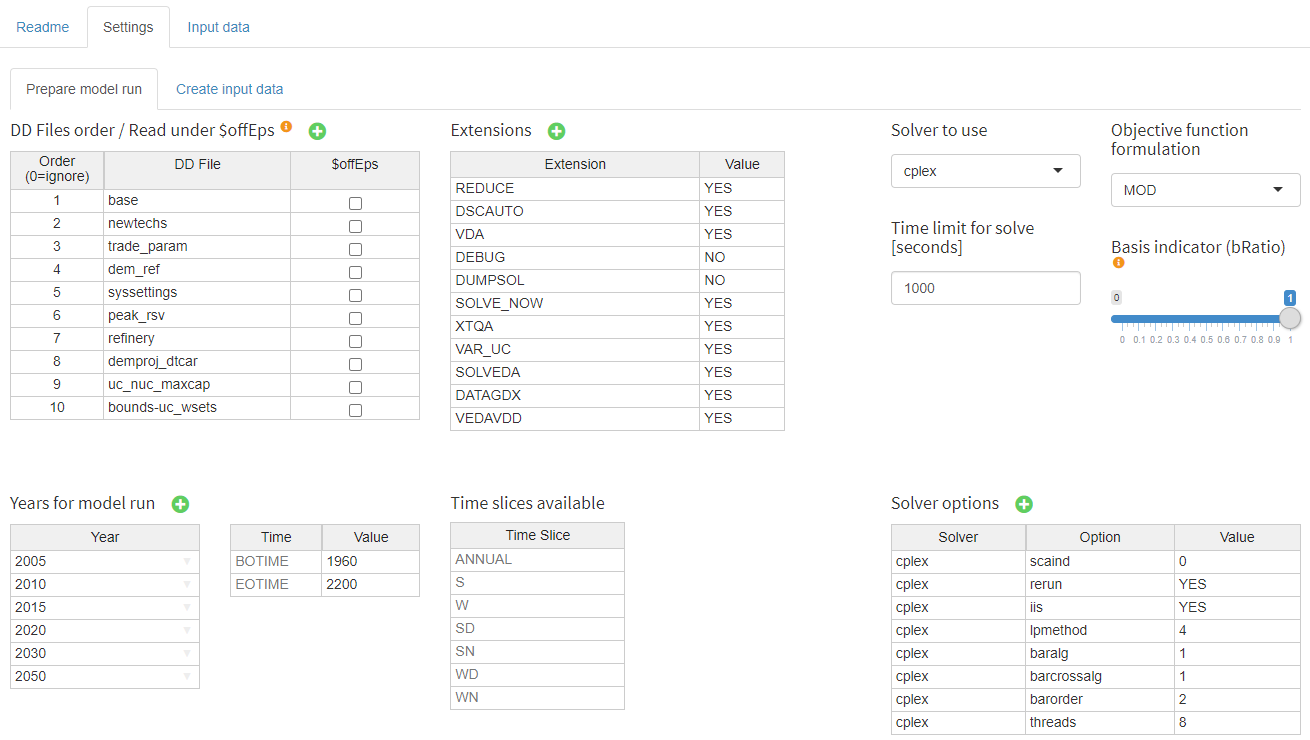
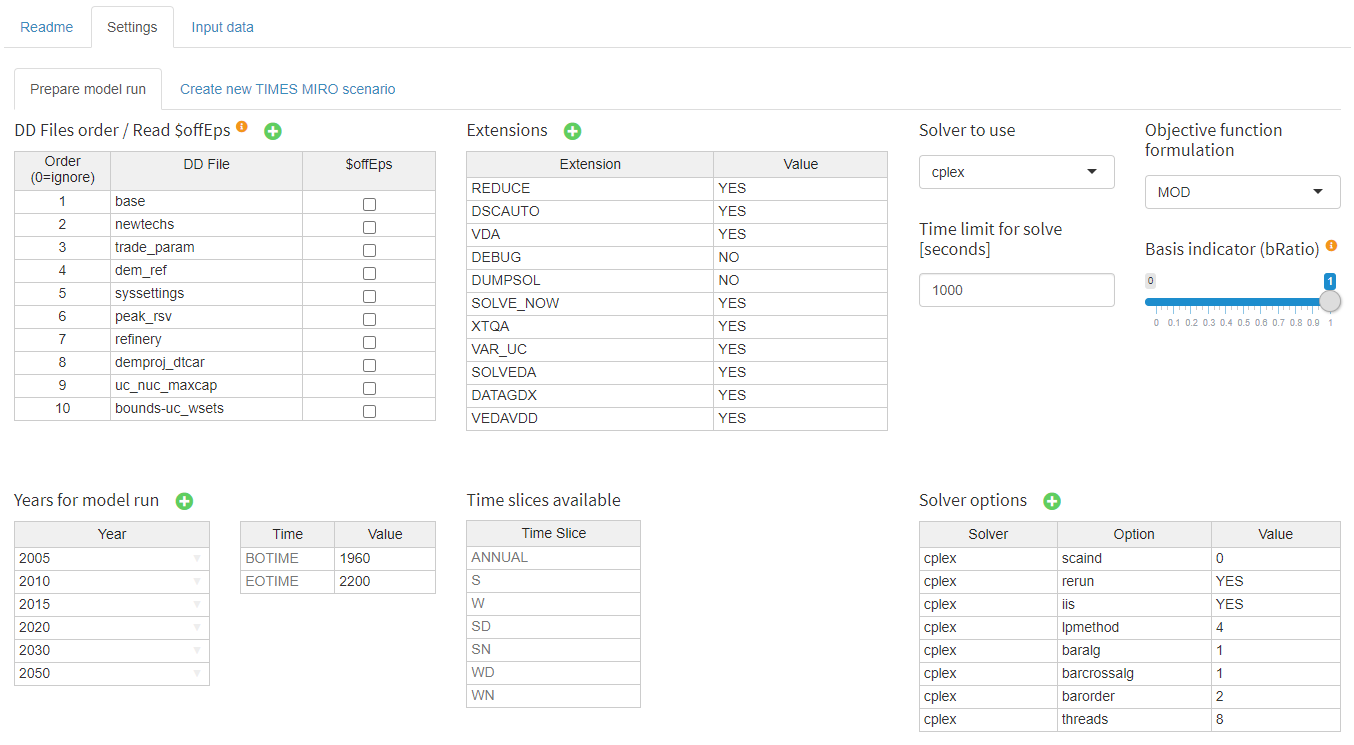
Minor fixes in the application readme
- Re-name 'Create input data' into 'Create new TIMES MIRO scenario'
- Use custom css styles in input renderers

diff --git a/static_times_miro/custom.css b/static_times_miro/custom.css
@@ -1,0 +1,212 @@
+/* Input widget */
+.table-styles {
+    margin-bottom: 15px;
+}
+.table-header {
+    display: inline-block;
+}
+.box-custom {
+    height: 450px;
+    margin-bottom: 25px;
+}
+.add-row-btn-wrapper {
+    display: inline-block;
+}
+.add-row-btn {
+    border: none;
+    box-shadow: none;
+    color: #60ce60;
+    font-size: 18px;
+}
+.info-label-nowrap {
+    white-space: nowrap;
+}
+@media only screen and (max-width: 1199px) {
+    .custom-2 {
+        width: 100%;
+    }
+    .custom-2.box-custom {
+        height: unset;
+        margin-bottom: 0px;
+    }
+    .outer-height{
+        height: 475px;
+    }
+}
+@media only screen and (min-width: 768px) and (max-width: 1199px) {
+    .reverse-custom {
+        display: flex;
+        flex-flow: row-reverse;
+    }
+}
+@media only screen and (min-width: 1200px) {
+    .custom-4 {
+        width: 33.33333333%;
+    }
+    .custom-8 {
+        width: 66.66666667%;
+    }
+}
+@media only screen and (min-width: 1200px) and (max-width: 1399px) {
+    .custom-2 {
+        width: 100%
+    }
+    .custom-2.box-custom {
+        height: unset;
+        margin-bottom: 0px;
+    }
+    .outer-height{
+        height: 475px;
+    }
+    .custom-4 {
+        width: 25%;
+    }
+    .custom-8 {
+        width: 75%;
+    }
+}
+/* RES network */
+.custom-css .row-custom {
+      margin-left: 0;
+      margin-right: 0;
+}
+.custom-css .align-items-center {
+      display: flex;
+      -webkit-box-align: center!important;
+      -ms-flex-align: center!important;
+      align-items: center!important;
+}
+.custom-css .align-items-center .col-sm-2,
+.custom-css .align-items-center .col-sm-3 {
+    flex-basis: 0;
+    -webkit-box-flex: 1;
+    -ms-flex-positive: 1;
+    flex-grow: 1;
+    max-width: 100%;
+}
+.custom-css .flow-chart {
+    min-height:250px;
+}
+.custom-css .flow-chart-outer {
+    margin: 10px 25pt 30pt 0;
+    padding-left: 50px;
+    padding-right: 50px;
+    background-color: #f1f1f18f;
+    box-shadow: inset 0 2px 4px 0 rgb(0 0 0 / 10%);
+}
+.custom-css .side-padding{
+    padding-left: 15px;
+    padding-right: 15px;
+}
+.custom-css .com-proc-item {
+  line-height: 16px;
+  font-size: 12px;
+  text-align: center;
+  border-radius: 20px;
+  padding: 5px;
+  display: block;
+  box-shadow: 0 1px 4px rgb(0 0 0 / 10%);
+  margin: 4px 3px;
+  border: 1px solid;
+  cursor: pointer;
+  color: #1d2121;
+  overflow-wrap: break-word;
+}
+.node-el {
+   border: 2px solid black;
+   padding: 5px;
+   text-align: center;
+   background-color: #fff;
+   overflow-wrap: break-word;
+}
+.node-column {    
+   padding-left: 8px;
+   padding-right: 8px;
+
+}
+.flow-arrow {
+    text-align: center;
+    font-size:40px;
+    padding-left: 0;
+    padding-right: 0;
+}
+.flow-arrow-small {
+    font-size:30px;
+}
+@media (prefers-color-scheme:dark){
+    .custom-css .com-proc-item,
+    .node-el {
+        background-color: #393e46;
+    }
+    .custom-css .flow-chart {
+        background-color: #4e545d;
+    }
+    .custom-css .flow-chart-outer {
+        background-color: #4e545d;
+    }
+    .flow-arrow {
+        color: #1d2121;
+    }
+    .pvtAxisContainer, .pvtVals {
+      background: #4e545d;
+    }
+    table.pvtTable tbody tr td {
+      color: #eee;
+      background-color: #393e46;
+    }
+    table.pvtTable tbody tr th, 
+    table.pvtTable thead tr th {
+      background-color: #292d33;
+    }
+    .pvtAxisContainer li span.pvtAttr {
+      background-color: #393e46;
+      border-color: #292d33;
+    }
+    .pvtUi {
+      color: #eee;
+    }
+}
+.custom-css .com-proc-item:hover {
+    background-color: #e7e7e7;
+    border-color: #adadad;
+    color: #1d2121;
+    transition: all .5s ease;
+}
+.flow-item-list {
+    padding: 5px;
+}
+.custom-list {
+  margin: 0;
+  padding: 0;
+}
+.flow-row {
+  margin: 10pt 0 35pt 0;
+}
+.legend-row {
+  padding-top: 25pt;
+  text-align: center;
+}
+.legend-row ul {
+  display: inline;
+  padding-left: 0;
+}
+.legend-row .legend-item {
+  line-height: 10px;
+  cursor: auto;
+  padding: 5px 15px;
+  display: inline-block;
+}
+.float-lg {
+    float:right;
+}
+@media only screen and (max-width: 1199px){
+    .custom-css .flow-chart-outer {
+        margin-right: 0;
+    }
+    .float-lg {
+        float:unset;
+    }
+}
+img + em {
+    display: block; 
+}

diff --git a/app_README.md b/app_README.md
@@ -1,12 +1,12 @@
 # TIMES MIRO App
 
-   * [Input View / Job setup](#input-view)
-       * [TIMES data sets](#times-data-sets)
-       * [Create input data](#create-input)
-       * [Prepare model run](#prepare-model-run)
-       * [Input data](#input-data)
-       * [RES viewer](#res-viewer)
-       * [Solve model](#solve-model)
+   * [Input View / Job Setup](#input-view)
+       * [TIMES MIRO Scenarios](#times-data-sets)
+       * [Create a TIMES MIRO Scenario from *.dd and *.run Files](#create-input)
+       * [Prepare Model Run](#prepare-model-run)
+       * [Input Data](#input-data)
+       * [RES Viewer](#res-viewer)
+       * [Solve Model](#solve-model)
    * [GAMS Interaction View](#gams-interaction-view)
    * [Output View](#output-view)
    * [Load Scenarios View](#load-scenarios-view)
@@ -14,7 +14,7 @@
    * [License](#license)
 
 
-This is a [GAMS MIRO](https://gams.com/miro) app for the [IEA-ETSAP TIMES](https://github.com/etsap-TIMES/TIMES_model) model. It allows the user to load and manipulate different data sets, to set TIMES options, to analyze input and output data, and to compare scenarios. The app comes with predefined data sets, e.g. the [TIMES_Demo](https://github.com/etsap-TIMES/TIMES_Demo) (default) and the the [TIMES-DK\_COMETS](https://github.com/energy-modelling-club/TIMES-DK_COMETS) data sets. Others can be created from \*.dd and \*.run files (see [below](#create-input)).
+This is a [GAMS MIRO](https://gams.com/miro) app for the [IEA-ETSAP TIMES](https://github.com/etsap-TIMES/TIMES_model) model. It allows the user to load and manipulate different data sets, to set TIMES options, to solve TIMES Models, to analyze input and output data, and to compare scenarios. The app comes with predefined TIMES MIRO Scenarios, e.g. the [TIMES_Demo](https://github.com/etsap-TIMES/TIMES_Demo) (default) and the the [TIMES-DK\_COMETS](https://github.com/energy-modelling-club/TIMES-DK_COMETS) data sets. Others can be created from \*.dd and \*.run files (see [below](#create-input)).
 
 The app follows the common [MIRO App Structure](https://www.gams.com/miro/start.html#miro-structure) with a navigation bar on the left side to switch between the following views:
 * Input View
@@ -23,37 +23,48 @@ The app follows the common [MIRO App Structure](https://www.gams.com/miro/start.
 * Load Scenarios View
 * Compare Scenarios View 
 <br /><br />
-
-## Input View / Job setup<a name="input-view"></a>
  
-### TIMES data sets<a name="times-data-sets"></a>
-To perform a model run, MIRO compatible data is required. This data can be loaded in the form of scenarios already stored in the integrated database or uploaded in the form of GDX files. Data sets stored in the database can be loaded via the `load data` button in the navigation bar of the Input view. In the dialog that opens, all available data sets are listed (`Database` tab). 
+### TIMES MIRO Scenarios<a name="times-data-sets"></a>
+To perform a model run, MIRO compatible data is required. This data can be loaded in the form of scenarios already stored in the integrated database or uploaded in the form of GDX files. TIMES MIRO scenarios stored in the database can be loaded via the `load data` button in the navigation bar of the Input view. In the dialog that opens, all available scenarios are listed (`Database` tab). 
 
 ![Load a data set from the database](static_times_miro/load_data.png)
-<br /><br />
+*Load a TIMES MIRO scenario from the database* 
 
-### Create input data<a name="create-input"></a>
-If the data comes from a GDX file, it must meet certain requirements. If not available, such a GDX file can be generated from within the interface using \*.dd files and a \*.run file. In the input view click on the `settings` tab and go to `Create input data`. Now upload all \*.dd files to be used and the \*.run file via the corresponding upload fields. MIRO will tell you if the upload was successful and lists the files in the tables next to the upload fields. The process to generate the GDX file can be started by clicking on `Solve model`. An input cube will be created from the \*.dd files provided by the user and a TIMES scenario will be defined by automatically extracting TIMES extensions, active \*.dd files, etc. from the \*.RUN file. Note that this approach is convenient but also fragile because if the RUN file contains unexpected content, things might fail.
+<br />
 
-**_NOTE:_**  Depending on which of the two sub-tabs `Prepare model run` and `Create input data` of the settings menu you are in, clicking on `Solve Model` will start different processes. Make sure that you are in the correct tab.
+### Create a TIMES MIRO Scenario from *.dd and *.run Files<a name="create-input"></a>
+If the data comes from a GDX file, this GDX file must correspond to the data structure of a TIMES MIRO scenario with its input cube and the settings. If not available, such a GDX file can be generated from within the interface using \*.dd files and a \*.run file. In the input view click on the `settings` tab and go to `Create new TIMES MIRO scenario`. Now upload all \*.dd files to be used and the \*.run file via the corresponding upload fields. MIRO tells you whether the upload was successful and lists the files in the tables next to the upload fields. 
 
-When the process is complete, the view switches to the output section and the GDX file is attached to the current MIRO scenario. To download it, go to `Scenario` in the upper right corner of the application, select `Edit metadata` and open the `Attachments` tab. You will find a `miroScenario.gdx`. Click on the file to start the download. 
-<br /><br />
+![Upload dd and run files](static_times_miro/upload_files.png)
+*Upload \*.dd and \*.run files*
+
+The process to generate the GDX file containing a TIMES MIRO Scenario can be started by clicking on `Solve model`. An input data cube will be created from the \*.dd files provided by the user and the TIMES MIRO scenario will be completed by automatically extracting TIMES extensions, active \*.dd files, etc. from the \*.run file. Note that this approach is convenient but also fragile because if the \*.run file contains unexpected content, things might fail.
+
+**_NOTE:_**  Depending on which of the two sub-tabs `Prepare model run` and `Create new TIMES MIRO scenario` of the settings menu you are in, clicking on `Solve Model` will start different processes. Make sure that you are in the correct tab. This also applies when you are no longer on the Settings tab. The last selected mode is activated.
+
+When the process is complete, the view switches to the output section and the GDX file is attached to the current MIRO scenario. To download it, go to `Scenario` in the upper right corner of the application, select `Edit metadata` and open the `Attachments` tab. You will find a `miroScenario.gdx`. Click on the file to start the download. This GDX file can be imported in a next step to use it as input data for a model run (see below).
+
+![Download of the new TIMES MIRO scenario](static_times_miro/download_miroscenario.png)
+*Download of the new TIMES MIRO scenario*
+
+<br />
 
 ### Prepare model run<a name="prepare-model-run"></a>
-If a compatible GDX file has been created, it can be used for a model run. To load the data of a GDX file into the interface, click on `Load data` in the input view and in the opening dialog on the `Local` tab. Here you can upload the GDX file and confirm it by clicking on `Import`. 
+To load a TIMES MIRO Scenario from a GDX file, click on `Load data` in the input view and in the opening dialog on the `Local` tab. Here you can upload the GDX file and confirm it by clicking on `Import`. 
 
-**_Info:_**  A dataset (all visible data and attachments) can be stored in the database at any time as a MIRO scenario for later use under `Scenario` &rarr; `Save as`. To load an existing scenario from the database, click the `Load data` button in the input view. If there are many saved scenarios, the [Load scenarios view](#load-scenarios-view) can give a better overview. 
+**_Info:_**  A TIMES MIRO Scenario (all visible data and attachments) can be stored in the database at any time as a MIRO scenario for later use under `Scenario` &rarr; `Save as`. To load an existing scenario from the database, click the `Load data` button in the input view. If there are many saved scenarios, the [Load scenarios view](#load-scenarios-view) can give a better overview. 
 
 Under `Prepare model run` in the `Settings` tab the main configuration is done. Since most of the settings should be self explaining only some of them are explained below.
 
 ![inputwidgets](static_times_miro/input_widgets.png)
+*The main configuration is done in the `prepare model run` tab* 
 
-`DD Files order / Read under $offEps`: In this table the names of all \*.dd files are listed. The user can adjust the read order and specify whether a \*.dd file should be read in GAMS under `$offEps`. If a \*.dd file should not be used for the next model run, this can be specified by an order value of `0`. 
+<br />
+`DD Files order / Read under $offEps`: In this table, the names of all \*.dd files that belong to the current TIMES MIRO scenario are listed. The user can adjust the read order and specify whether a \*.dd file should be read in GAMS under `$offEps`. If a \*.dd file should not be used for the next model run, this can be specified by an order value of `0`. 
 
-`Extensions`: This table allows to enable/disable several TIMES extensions.
+`Extensions`: This table allows to enable/disable TIMES extensions.
 
-`Time slices available`: This table cannot be edited by the user, but only serves as an overview of the available time slices in the data. The set of timeslices and the representation of the intra-annual resolution is pre-configured and of central to many model parameters. A re-configuration of this set would require extensive modifications in the input parameters.
+`Time slices available`: This table cannot be edited by the user, but only serves as an overview of the available time slices in the data. The set of timeslices and the representation of the intra-annual resolution is pre-configured and of central importance to many model data structures. A re-configuration of this set would require extensive modifications in the input data cube.
 
 `Years for model run`: This table allows to select the set of years for which the model will run. Those years are often referred to as *milestone years*.
 
@@ -61,16 +72,18 @@ Under `Prepare model run` in the `Settings` tab the main configuration is done. 
 <br /><br />
 
 ### Input data<a name="input-data"></a>
-This is the central tab for browsing and editing input data in a powerful pivot table. The concept of this tab follows the idea to look at data based on "important" indices (e.g. Region, Year, Process, Commodity, Time Slice, ...). Each dimension of the cube can be filtered, aggregated, dragged into the columns, etc. using drag and drop. The cells are editable. Note, however, that as long as a dimension of the cube is in the `Aggregate` field, the table is read-only. More information about the pivot tool in general can be found [here](https://www.gams.com/miro/charts.html#pivot-chart).
+This is the central tab for browsing and editing input data in a powerful pivot table. The concept of this tab follows the idea to look at data based on "important" indices (e.g. Region, Year, Process, Commodity, Time Slice, ...). Each dimension of the cube can be filtered, aggregated, dragged into the columns, etc. using drag and drop. The cells are editable. Note, however, that when a dimension of the cube is in the `Aggregate` field, the table is read-only. More information about the pivot tool in general can be found [here](https://www.gams.com/miro/charts.html#pivot-chart).
 
 ![inputtable](static_times_miro/input_table.png)
+*Edit of the input cube* 
 
-<br /><br />
+<br />
 
 ### RES viewer<a name="res-viewer"></a>
 In the upper right corner of the input data tab there is a *switch view* button that allows to look at the RES network. The RES viewer provides `process centric`, `commodity centric` and `user constraint centric` views. All displayed items are clickable which allows convenient switching between different views. The corresponding table at the right and the pivot table at the bottom are updated automatically and show related data.
 
 ![resnetwork](static_times_miro/res_network.png)
+*Process-centric view of the RES Viewer* 
 
 <br /><br />
 
@@ -78,20 +91,24 @@ In the upper right corner of the input data tab there is a *switch view* button 
 When all data has been prepared and settings have been made in the input view, the model can be solved by clicking on the `solve model` button in the navigation bar.
 
 ![navigation](static_times_miro/solve.png)
+*Solve the TIMES model* 
+
 <br /><br />
 
 ## GAMS Interaction View<a name="gams-interaction-view"></a>
-The GAMS Interaction View is automatically focused during a run. It shows the log file while it is written. The log and lst file can be accessed after a run. Note that the lst file shown in the app is a combination of the lst files written when running the wrapper `times_miro.gms` and the driver `timesdriver.gms`.
+The GAMS Interaction View is automatically focused during a run. It shows the log file while it is written. The log and listing file can be accessed after a run. Note that the listing file shown in the app is a combination of the listing files written when running the wrapper `times_miro.gms` and the driver `timesdriver.gms`. You can find more information about the underlying code structure [here](https://github.com/GAMS-dev/TIMES_MIRO#code-structure).
 
 For more details on this view, please consult the [GAMS MIRO Documentation](https://www.gams.com/miro/start.html#miro-structure).
 
 
 ## Output View<a name="output-view"></a>
-Once a TIMES model has been solved, the Output view is filled with results data. Similar to the Input data, the concept of the output data follows the idea to look at data based on "important" indices (e.g. Region, Year, Process, Commodity, Time Slice, ...). The cube is generated with the help of the tool [GDX2VEDA](https://www.gams.com/latest/docs/T_GDX2VEDA.html).
+Once a TIMES model has been solved, the Output view is filled with results data. Similar to the Input data, the concept of the output data follows the idea to look at data based on "important" indices (e.g. Region, Year, Process, Commodity, Time Slice, ...). The output data cube is generated with the help of the tool [GDX2VEDA](https://www.gams.com/latest/docs/T_GDX2VEDA.html).
 The output data can be browsed in a pivot table (read-only) as in the input view or in a standard table. Views can be switched by the button in the upper right corner.
 
-![inputcube](static_times_miro/output_pivot.png)
+![outputcube](static_times_miro/output_pivot.png)
+*Output view using a pivot table* 
 
+<br />
 The output view also provides basic charting facilities. Supported chart types are:
 * heatmap
 * bar chart
@@ -103,13 +120,14 @@ The output view also provides basic charting facilities. Supported chart types a
 * radar chart
 
 ![inputcube](static_times_miro/stacked_bar_chart.png)
+*Stacked bar chart* 
 
 ## Load Scenarios View<a name="load-scenarios-view"></a>
-`Load scenarios` provides a powerful Batch Load module that graphically assists you create and execute complex database queries. Filters can be applied to scenario metadata such as the creation time, scenario name, or optional tags you have assigned to a scenario. You can also filter by any input and output scalars defined in your model as well as any Double-dash parameters and GAMS options. You can combine any of these filters with the logical operators AND and OR. You can execute your query by clicking on the Fetch results button. After the results have been retrieved, the page will be updated and you will see a table with the scenarios that correspond to your query. Once you have found the scenarios you were looking for, you can select them and, for example, [compare them](#compare-scenarios-view) or load them into the sandbox for editing. More information about this in the [official MIRO documentation](https://www.gams.com/miro/start.html#scenario-loading).
+`Load scenarios` provides a powerful batch load module that graphically assists you to create and execute complex database queries. Filters can be applied to scenario metadata such as the creation time, scenario name, or optional tags you have assigned to a scenario. You can also filter by any input and output scalars defined in your model as well as any [double-dash parameters](https://www.gams.com/latest/docs/UG_GamsCall.html#UG_GamsCall_DoubleDashParametersEtc) and GAMS [command line parameters](https://www.gams.com/latest/docs/UG_GamsCall.html#UG_GamsCall_ListOfCommandLineParameters). You can combine any of these filters with the logical operators AND and OR. You can execute your query by clicking on the Fetch results button. After the results have been retrieved, the page will be updated and you will see a table with the scenarios that correspond to your query. Once you have found the scenarios you were looking for, you can select them and, for example, [compare them](#compare-scenarios-view) or load them into the sandbox for editing. More information about this in the [official MIRO documentation](https://www.gams.com/miro/start.html#scenario-loading).
 
 ## Compare Scenarios View<a name="compare-scenarios-view"></a>
 
-This view can be used to compare MIRO scenarios that are stored in the database. There are three different types of comparison available, split view, tab view and pivot view. In the split view comparison the data of two scenarios can be compared side by side. Scenarios can also be loaded into tabs (as you know it from e.g. your internet browser) in the tab view comparison. This allows to compare more than two scenarios. In the pivot view comparison the data of all selected scenarios is merged into a pivot table.
+This view can be used to compare MIRO scenarios that are stored in the database. There are three different types of comparison available, split view, tab view and pivot view. In the split view comparison the data of two scenarios can be compared side by side. Scenarios can also be loaded into tabs (as you know it from e.g. your internet browser) in the tab view comparison. This allows to compare more than two scenarios. In the pivot view comparison the data of all selected scenarios is merged into a pivot table which allows to create charts that combine data from multiple scenarios.
 
 
 # License<a name="license"></a>
